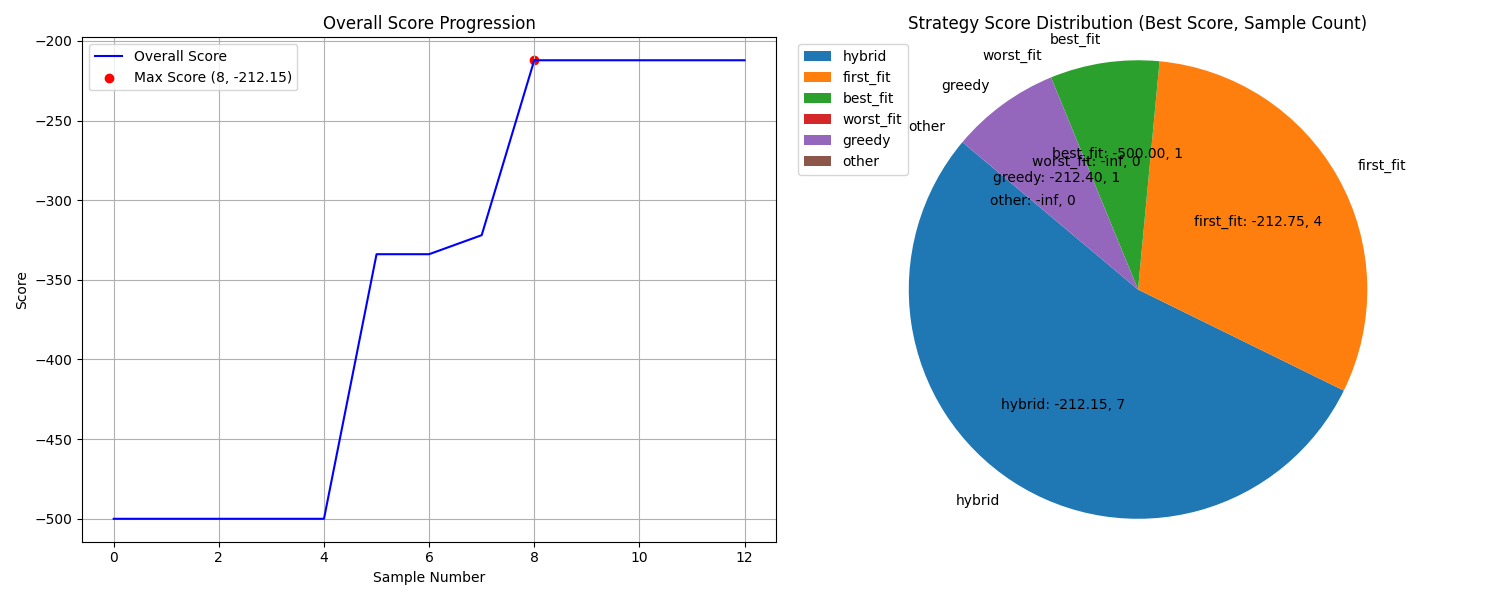
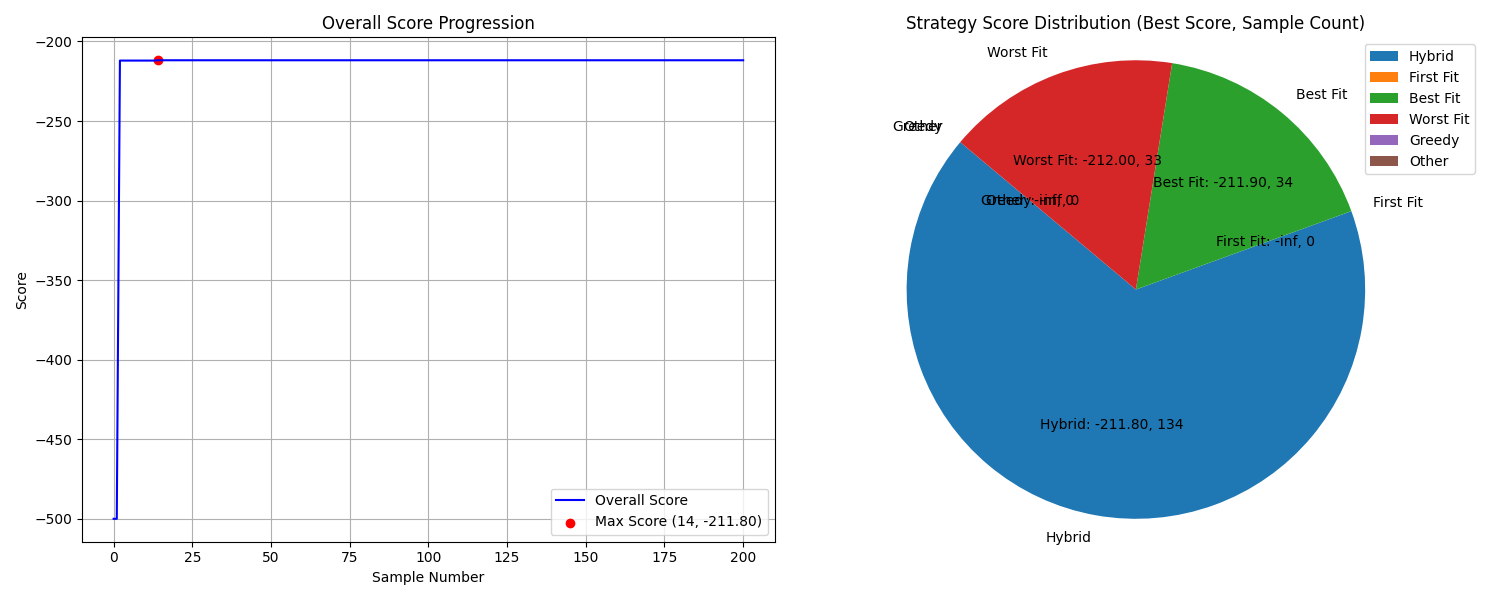
完成了对有无Strategy Router的对比

diff --git a/funsearch_bin_packing_llm_api.py b/funsearch_bin_packing_llm_api.py
@@ -18,19 +18,35 @@ import multiprocessing
 from typing import Collection, Any
 import http.client
 import numpy as np
+import time
 
+# 读取API密钥
 with open('api_key.txt', 'r') as f:
     api_key = f.read()
 
+# 记录分数
 scores_list = []
+# 记录不同策略的分数
 strategy_scores = {
-    "hybrid": [],
-    "first_fit": [],
-    "best_fit": [],
-    "worst_fit": [],
-    "greedy": [],
-    "other": []
+    "Hybrid": [],
+    "First Fit": [],
+    "Best Fit": [],
+    "Worst Fit": [],
+    "Greedy": [],
+    "Other": []
 }
+
+# 使用给定策略的概率
+pb = 0.15
+# 使用给定策略的次数
+fixed_count = {
+    'First Fit': 0,
+    'Best Fit': 0,
+    'Worst Fit': 0,
+    'Greedy': 0
+}
+# 错误函数数量
+failed_count = 0
 
 def _trim_preface_of_body(sample: str) -> str:
     """Trim the redundant descriptions/symbols/'def' declaration before the function body.
@@ -91,16 +107,18 @@ class LLMAPI(sampler.LLM):
                 strategy_prompt += f"{strategy}: Best score {score:.2f}\n"
             else:
                 strategy_prompt += f"{strategy}: Unknown\n"
-
-        if np.random.random() <= 0.15:
+        # 随机触发使用固定策略生成函数
+        if np.random.random() <= pb:
             strategy = np.random.choice(['First Fit', 'Best Fit', 'Worst Fit', 'Greedy'])
+            global fixed_count
+            fixed_count[strategy] += 1
         else:
             strategy = None
 
         if strategy is not None:
             additional_prompt = (
                 'Complete a different and more complex Python function. '
-                f'You are highly recommended to use {strategy} strategy. '
+                f'You are strongly recommended to use {strategy} strategy. '
                 'Only output the Python code, no descriptions.'
                 'In the function docstring, clearly state which strategy you are using.'
             )
@@ -216,7 +234,7 @@ class Sandbox(evaluator.Sandbox):
             # 分数列表
             if not scores_list: # 如果分数列表为空，直接添加当前分数
                 scores_list.append(results[0])
-            else:   # 如果分数列表为空，添加当前分数和列表中上一分数更高的一个
+            else:   # 如果分数列表不为空，添加当前分数和列表中上一分数更高的一个
                 scores_list.append(max(scores_list[-1], results[0]))
 
             # 策略分数
@@ -224,6 +242,8 @@ class Sandbox(evaluator.Sandbox):
         else:
             scores_list.append(scores_list[-1])
             strategy_scores = self._strategy_tracker.update_score(program, -float('inf'))
+            global failed_count
+            failed_count += 1
 
         return results
 
@@ -263,9 +283,11 @@ if __name__ == '__main__':
     config = config.Config(samples_per_prompt=4, evaluate_timeout_seconds=300)
 
     bin_packing_or3 = {'OR3': bin_packing_utils.datasets['OR3']}
-    global_max_sample_num = 3 * 4  # n * m, n is total number of rounds and m is the number of samplers
+    global_max_sample_num = 50 * 4  # n * m, n is total number of rounds and m is the number of samplers
     
     print("\nStarting FunSearch with strategy tracking...")
+    # 开始时间
+    start_time = time.time()
     funsearch.main(
         specification=specification,
         inputs=bin_packing_or3,
@@ -274,6 +296,10 @@ if __name__ == '__main__':
         class_config=class_config,
         log_dir='logs/funsearch_llm_api',
     )
+    # 结束时间
+    end_time = time.time()
+    # 计算运行时间
+    run_time = end_time - start_time
 
     print("\nGenerating plots...")
     # Plot overall score progression
@@ -331,9 +357,21 @@ if __name__ == '__main__':
     print("=" * 50)
     for strategy in strategy_scores:
         scores = strategy_scores[strategy]
+
         if scores:
             print(f"{strategy}:")
             print(f"  Best Score: {max(scores):.2f}")
+            print(f"  Best Attempt: {scores.index(max(scores))}")
             print(f"  Average Score: {sum(scores) / len(scores):.2f}")
-            print(f"  Number of Attempts: {len(scores)}")
+            print(f"  Number of Total Attempts: {len(scores)}")
+            if strategy in fixed_count:
+                print(f"  Number of Attempts with Fixed Strategy: {fixed_count[strategy]}")  # 打印固定策略的次数
             print("-" * 50)
+
+    print("=" * 50)
+    print("Summary:\n")
+    print(f"Total Samples: {len(scores_list)}")
+    print(f"Best Overall Score: {max(scores_list):.2f}")
+    print(f"Best Overall Attempt: {scores_list.index(max(scores_list))}")
+    print(f"Total Failed Attempts: {failed_count} ({failed_count / len(scores_list) * 100:.2f}%)")
+    print(f"Total Time: {run_time:.2f} seconds ({run_time / len(scores_list):.2f} seconds per attempt on average)")

diff --git a/implementation/strategy_tracker.py b/implementation/strategy_tracker.py
@@ -1,20 +1,20 @@
 class StrategyTracker:
     def __init__(self):
         self._strategy_scores: dict = {
-            "hybrid": [],
-            "first_fit": [],
-            "best_fit": [],
-            "worst_fit": [],
-            "greedy": [],
-            "other": []
+            "Hybrid": [],
+            "First Fit": [],
+            "Best Fit": [],
+            "Worst Fit": [],
+            "Greedy": [],
+            "Other": []
         }
         self._strategy_examples: dict = {
-            "hybrid": [],
-            "first_fit": [],
-            "best_fit": [],
-            "worst_fit": [],
-            "greedy": [],
-            "other": []
+            "Hybrid": [],
+            "First Fit": [],
+            "Best Fit": [],
+            "Worst Fit": [],
+            "Greedy": [],
+            "Other": []
         }
         self._round = 0
         self._scores_history: list[dict[str, float]] = []
@@ -24,19 +24,19 @@ class StrategyTracker:
         """Classify the strategy used in the code."""
         code = code.lower()
         if "hybrid" in code:
-            return "hybrid"
-        elif "first" in code:
-            return "first_fit"
+            return "Hybrid"
         elif "worst" in code:
-            return "worst_fit"
-        elif "greedy" in code:
-            return "greedy"
+            return "Worst Fit"
         elif "best" in code:
-            return "best_fit"
+            return "Best Fit"
+        elif "first" in code:
+            return "First Fit"
+        elif "greedy" in code:
+            return "Greedy"
         else:
-            return "other"
+            return "Other"
     
-    def update_score(self, code: str, score: float):
+    def update_score(self, code: str, score: float) -> dict:
         """Update the score for a strategy."""
         strategy = self.classify_strategy(code)
         print(f"Classified strategy: {strategy}")

diff --git a/对比.md b/对比.md
@@ -1,0 +1,45 @@
+# With Strategy Router
+
+Final Strategy Statistics:
+------------------------------------------------
+1. Hybrid:
+- Best Score: -211.80 
+- Best Attempt: 9 
+- Average Score: -inf 
+- Number of Total Attempts: 134
+--------------------------------------------------
+2. Best Fit:
+- Best Score: -211.90 
+- Best Attempt: 22 
+- Average Score: -inf 
+- Number of Total Attempts: 34 
+- Number of Attempts with Fixed Strategy: 7
+--------------------------------------------------
+3. Worst Fit:
+- Best Score: -212.00 
+- Best Attempt: 0 
+- Average Score: -inf 
+- Number of Total Attempts: 33 
+- Number of Attempts with Fixed Strategy: 11
+--------------------------------------------------
+Total Summary:
+---
+- Total Samples: 201 
+- Best Overall Score: -211.80 
+- Best Overall Attempt: 14 
+- Total Failed Attempts: 42 (20.89%)
+- Total Time: 2846.70 seconds (14.16 seconds per attempt on average)
+
+![strategy_scores.png](strategy_scores.png)
+
+# Without Strategy Router
+
+Summary:
+---
+- Total Samples: 201 
+- Best Overall Score: -211.40 
+- Best Overall Attempt: 74 
+- Total Failed Attempts: 40 (19.90%)
+- Total Time: 2393.79 seconds (11.91 seconds per attempt on average)
+
+![strategy_scores.png](../Case0_BinPacking/strategy_scores.png)
